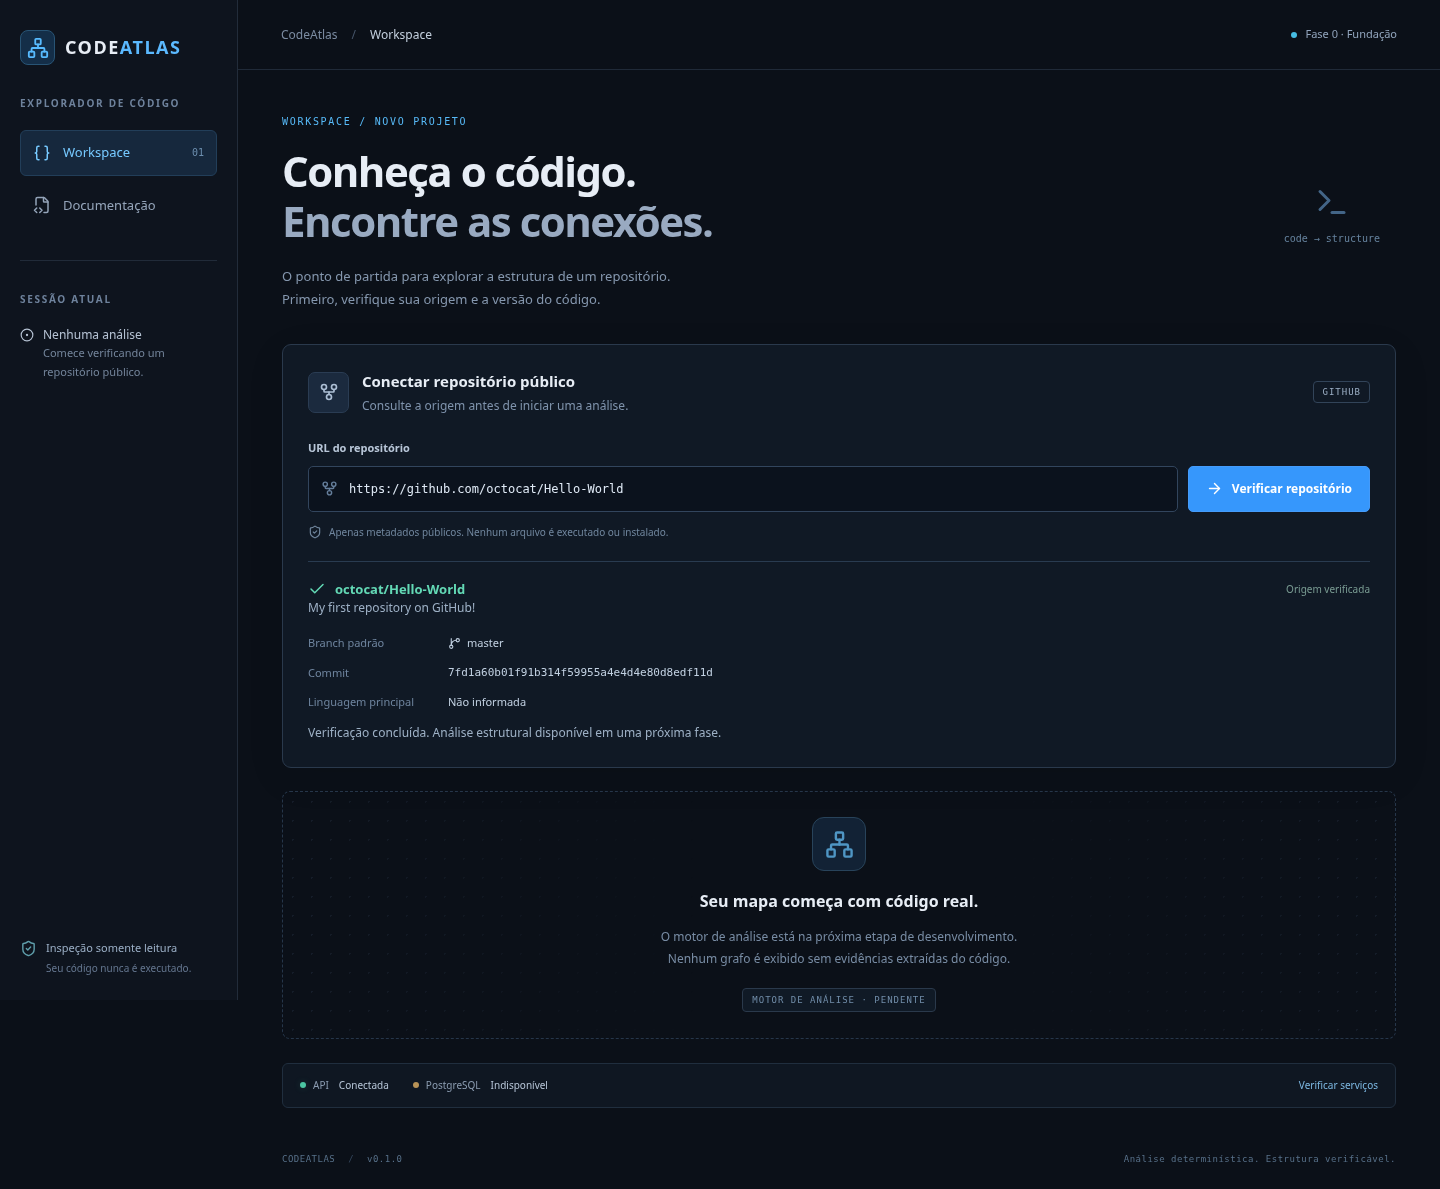
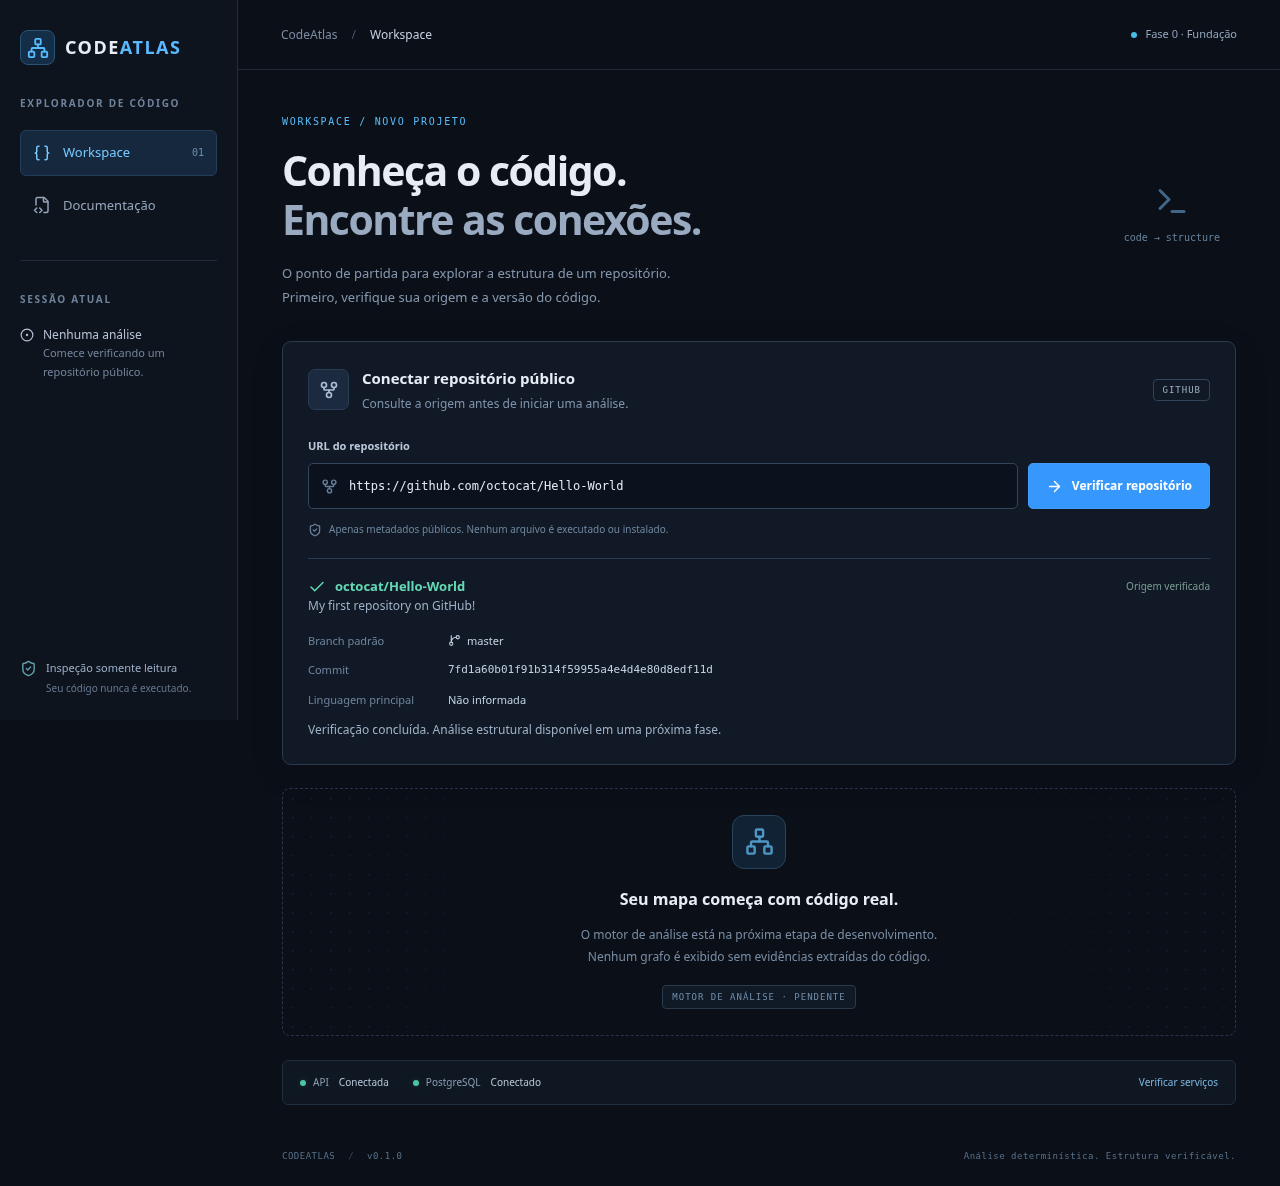
docs: confirm production Neon connection and live validation

diff --git a/docs/DEPLOYMENT_2026-11-14.md b/docs/DEPLOYMENT_2026-11-14.md
@@ -2,15 +2,17 @@
 
 URL: https://codeatlas.erickhatano.workers.dev
 
-Interface React e API Hono da Fase 0 publicadas. Consulta GitHub real, sem importação de arquivos ou análise estrutural. O motor continua pendente.
+Interface React e API Hono da Fase 0 publicadas e conectadas ao Neon. Após autorização explícita do usuário, o segredo DATABASE_URL foi configurado e validado. Consulta GitHub real, sem importação de arquivos ou análise estrutural. O motor continua pendente.
 
-## Identificadores
+Versão integrada atual: `1e343c96-cd9c-44b5-bbec-6a74dd49f589`; implantação `cf4cc2c9-135f-48c4-8543-72ba5b12e6b8`, 100% do tráfego, criada em `2026-11-14T16:42:29.650122Z`.
+
+## Identificadores da publicação inicial
 
 - Código da aplicação: `1dd40be706e9c84092e1ea3990d540c4b4efe642`.
 - Worker: codeatlas. Versão: `ebf6fd73-c14a-4728-8817-3bdf2c370736`.
 - Implantação: `fd7b9983-1941-4fc4-bad1-68a0b7ccd559`, 100% do tráfego, criada em `2026-11-14T16:21:32.744815Z`.
 - Banco preparado: projeto Neon royal-cloud-93187622, main br-spring-credit-bbkol88o. Migração 0001 e smoke com commit/rollback aprovados; registro técnico `464349a4-4b2e-45c2-a13e-fe00e90c0795`.
-- Papel codeatlas_runtime: leitura do esquema permitida; INSERT em projects negado. Nenhuma credencial Neon configurada no Worker.
+- Papel codeatlas_runtime: leitura do esquema permitida; INSERT em projects negado. Credencial configurada no Worker como segredo após a autorização do usuário.
 
 ## Testes reais
 
@@ -23,19 +25,19 @@ Interface React e API Hono da Fase 0 publicadas. Consulta GitHub real, sem impor
 | Origem interna inválida         | 400, sem requisição interna                                                           |
 | GitHub público                  | 200 para octocat/Hello-World, master, commit 7fd1a60b01f91b314f59955a4e4d4e80d8edf11d |
 | Static Assets                   | Três arquivos públicos coincidem com hashes locais                                    |
-| E2E no endereço público         | 2 aprovados: fluxo/erros/documentação e viewport móvel                                |
+| E2E no endereço público         | 3 aprovados: fluxo/erros/documentação, viewport móvel e banco/GitHub reais            |
 | Navegador, consulta real GitHub | Aprovado; captura abaixo                                                              |
-| Conexão pública ao Neon         | Pendente: readiness 503/not_configured, explícito na interface                        |
+| Conexão pública ao Neon         | Aprovada: readiness 200/ready e smoke live database=connected                         |
 
 Problemas locais de teste corrigidos sem ignorar certificados: Chromium recebeu acesso ao NSS já configurado com a CA do proxy; o contexto HTTP do Playwright respeita HTTPS_PROXY/HTTP_PROXY ao testar URL externa. Não foram usadas respostas simuladas.
 
 [Captura da versão publicada](evidence/production.png).
 
-## Bloqueio restante
+## Autorização concluída
 
-A revisão automática de aprovação rejeitou transmitir DATABASE_URL como segredo à Cloudflare por exigir autorização explícita para essa credencial e destino. Essa autorização foi solicitada. A alternativa publicada contém interface/API sem segredo de banco; o estado indisponível aparece corretamente.
+A primeira tentativa de configurar DATABASE_URL foi bloqueada por exigir autorização explícita para essa credencial e destino. O usuário concedeu essa autorização; o segredo foi configurado pela API oficial Cloudflare. A versão integrada substituiu a publicação inicial sem banco.
 
-Para concluir: obter autorização para configurar a credencial somente de leitura do Neon no segredo DATABASE_URL do Worker codeatlas, configurar, validar readiness 200, smoke e E2E live. Não tratar a conexão com o banco nem o produto completo como concluídos antes disso.
+Validação concluída: readiness 200, smoke real e três E2E públicos aprovados. A conexão do Worker com o banco está operacional. O produto completo permanece pendente das fases do motor, grafos e demais funcionalidades.
 
 ## Infraestrutura e custos
 

diff --git a/DEPLOYMENT.md b/DEPLOYMENT.md
@@ -2,21 +2,21 @@
 
 URL pública da Fase 0: **https://codeatlas.erickhatano.workers.dev**.
 
-Interface e API publicadas na Cloudflare. **A conexão do Worker com o Neon aguarda autorização explícita para configurar DATABASE_URL.** Readiness responde 503/not_configured e a interface mostra PostgreSQL indisponível. O motor de análise permanece pendente.
+Interface e API publicadas na Cloudflare e conectadas ao Neon. **Readiness responde 200/ready e o banco aparece conectado na interface.** O motor de análise permanece pendente.
 
 ## Versão e recursos
 
 - Código da aplicação: commit 1dd40be706e9c84092e1ea3990d540c4b4efe642.
-- Worker codeatlas; versão ebf6fd73-c14a-4728-8817-3bdf2c370736, implantação fd7b9983-1941-4fc4-bad1-68a0b7ccd559, 100% do tráfego.
+- Worker codeatlas; versão 1e343c96-cd9c-44b5-bbec-6a74dd49f589, implantação cf4cc2c9-135f-48c4-8543-72ba5b12e6b8, 100% do tráfego.
 - Static Assets: três arquivos, SPA fallback e prioridade /api/*. INSPECT_LIMITER: 10 inspeções/minuto/IP/localidade. Logs e traces habilitados.
 - Neon exclusivo: PostgreSQL 17, main migrada em transação; runtime codeatlas_runtime somente de leitura. Desenvolvimento isolado na dev-phase-0.
 - Repositório único: https://github.com/Xit-coder/Code-Atlas. GitHub Actions Validate valida sem deploy automático.
 
-## Autorização pendente
+## Segredo e permissões
 
-A revisão automática bloqueou o envio da credencial Neon como secret_text, exigindo autorização explícita para transferi-la à Cloudflare. A publicação prosseguiu sem credencial de banco. A permissão solicitada é configurar DATABASE_URL do papel codeatlas_runtime como segredo no Worker codeatlas, por HTTPS. O valor não será publicado no site nem no GitHub.
+Após autorização explícita do usuário, DATABASE_URL do papel codeatlas_runtime foi configurada como secret_text no Worker codeatlas. O valor foi enviado por HTTPS e não aparece no site nem no GitHub. O papel é somente de leitura, sem INSERT em projects. A primeira publicação sem segredo foi substituída pela versão integrada.
 
-Após autorização: configurar o segredo sem exibir seu valor, testar readiness 200, smoke live e E2E de banco/GitHub e registrar a nova versão. Não transmitir a credencial antes da autorização.
+Readiness 200, smoke live e três testes E2E públicos de banco/GitHub foram aprovados após configurar o segredo. Não ampliar permissões do papel nem expor o valor em logs.
 
 ## Reproduzir e atualizar
 
@@ -32,6 +32,6 @@ Cloudflare Billing Read não está disponível pelo OAuth: subscriptions retorna
 
 CODEATLAS_BASE_URL=https://codeatlas.erickhatano.workers.dev npm run test:e2e
 
-Testes externos respeitam HTTPS_PROXY/HTTP_PROXY. Chromium precisa acessar seu NSS de certificados confiáveis; manter validação TLS habilitada. Após autorizar o banco, adicionar CODEATLAS_LIVE=1 e executar o smoke live com a URL pública.
+Testes externos respeitam HTTPS_PROXY/HTTP_PROXY. Chromium precisa acessar seu NSS de certificados confiáveis; manter validação TLS habilitada. Para incluir o teste real de banco, adicionar CODEATLAS_LIVE=1. Para o smoke, usar CODEATLAS_SMOKE_URL=https://codeatlas.erickhatano.workers.dev npm run test:live.
 
 Resultados e evidências: [relatório da publicação](docs/DEPLOYMENT_2026-11-14.md).

diff --git a/DATABASE.md b/DATABASE.md
@@ -1,6 +1,6 @@
 # Banco de dados
 
-Neon exclusivo: projeto `royal-cloud-93187622` (codeatlas), PostgreSQL 17, AWS us-east-1. Desenvolvimento: `br-curly-credit-bb7iooc4` (dev-phase-0). A main recebeu a migração 0001 e um registro técnico de smoke durante a publicação; dev-phase-0 permanece isolada. A credencial codeatlas_runtime é somente de leitura e aguarda autorização para ser configurada na Cloudflare. Organização Free verificada; compute 0.25 CU. A política de suspensão é gerida pelo plano, pois a API recusou definir esse intervalo manualmente.
+Neon exclusivo: projeto `royal-cloud-93187622` (codeatlas), PostgreSQL 17, AWS us-east-1. Desenvolvimento: `br-curly-credit-bb7iooc4` (dev-phase-0). A main recebeu a migração 0001 e um registro técnico de smoke durante a publicação; dev-phase-0 permanece isolada. A credencial codeatlas_runtime é somente de leitura e está configurada como segredo DATABASE_URL na Cloudflare, após autorização explícita do usuário. Organização Free verificada; compute 0.25 CU. A política de suspensão é gerida pelo plano, pois a API recusou definir esse intervalo manualmente.
 
 ## Migração 0001
 

diff --git a/README.md b/README.md
@@ -51,4 +51,4 @@ Pendentes: parser Tree-sitter, processamento assíncrono, persistência de anál
 
 Licença: MIT. Repositório: [Xit-coder/Code-Atlas](https://github.com/Xit-coder/Code-Atlas).
 
-Versão pública da Fase 0: **https://codeatlas.erickhatano.workers.dev**. Interface e API publicadas; a conexão do Worker com o Neon aguarda autorização explícita para configurar o segredo DATABASE_URL. O motor de análise permanece pendente. [Evidência da publicação](docs/DEPLOYMENT_2026-11-14.md).
+Versão pública da Fase 0: **https://codeatlas.erickhatano.workers.dev**. Interface e API publicadas e conectadas ao Neon com credencial somente de leitura; readiness e testes E2E públicos aprovados. O motor de análise permanece pendente. [Evidência da publicação](docs/DEPLOYMENT_2026-11-14.md).
